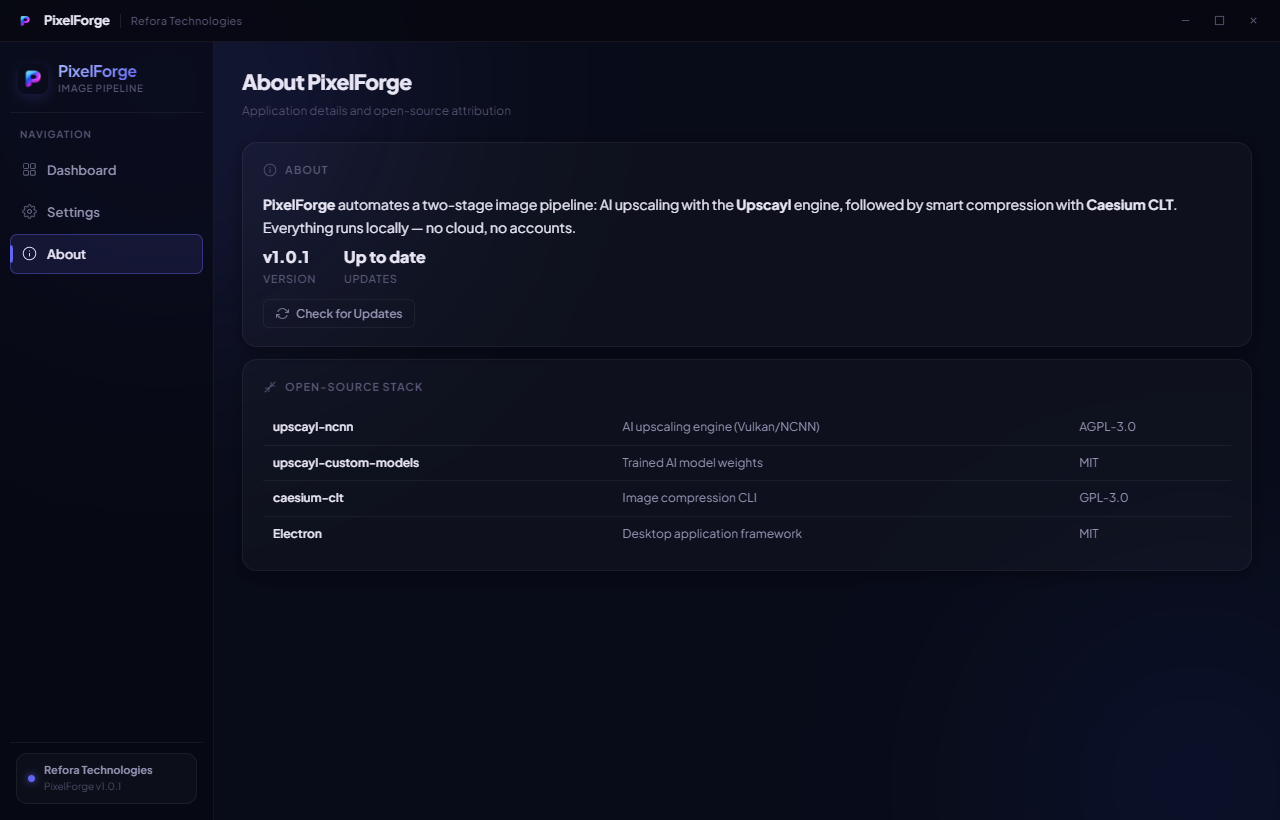
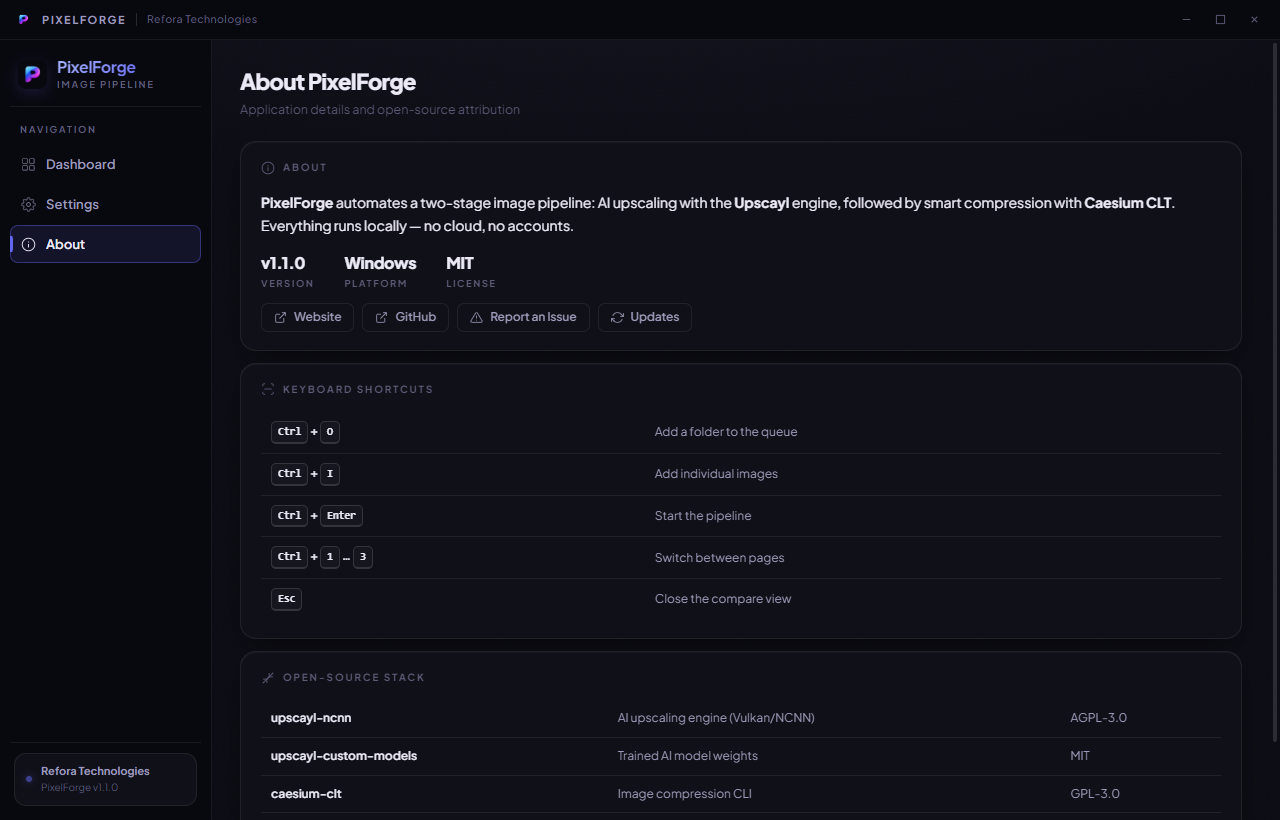
Refresh README screenshots for the new UI

diff --git a/tools/shoot-readme.js b/tools/shoot-readme.js
@@ -1,0 +1,112 @@
+'use strict';
+
+// Captures the three README screenshots at the same size and framing as the
+// originals: neutral sample filenames, and no filesystem paths in frame on the
+// dashboard (the Output Folders card sits below the fold with a full queue).
+//
+//   npx electron tools/shoot-readme.js
+
+const path = require('path');
+const fs = require('fs');
+const os = require('os');
+const { app, BrowserWindow } = require('electron');
+
+const ROOT = path.join(__dirname, '..');
+const OUT = path.join(ROOT, 'shots', 'readme');
+const WORK = path.join(os.tmpdir(), 'pixelforge-readme');
+const USER_DATA = path.join(WORK, 'userdata');
+const INPUT = path.join(WORK, 'samples');
+
+fs.rmSync(WORK, { recursive: true, force: true });
+for (const d of [USER_DATA, INPUT, OUT]) fs.mkdirSync(d, { recursive: true });
+app.setPath('userData', USER_DATA);
+
+const pkgVersion = require(path.join(ROOT, 'package.json')).version;
+app.getVersion = () => pkgVersion;
+
+const home = process.env.USERPROFILE || os.homedir();
+const binDir = path.join(process.env.APPDATA || '', 'PixelForge', 'bin');
+
+// Generic names so the queue reads like real photo work rather than test files.
+const SAMPLES = {
+  'landscape.png': path.join(ROOT, 'assets', 'icon.png'),
+  'portrait.png': path.join(ROOT, 'src', 'pixelfroge logo.png'),
+  'artwork.png': path.join(ROOT, 'assets', 'screenshots', 'dashboard.png'),
+  'closeup.png': path.join(ROOT, 'assets', 'screenshots', 'settings.png'),
+  'texture.png': path.join(ROOT, 'assets', 'screenshots', 'about.png'),
+};
+for (const [name, src] of Object.entries(SAMPLES)) fs.copyFileSync(src, path.join(INPUT, name));
+
+fs.writeFileSync(path.join(USER_DATA, 'config.json'), JSON.stringify({
+  app: {
+    setupDone: true, theme: 'dark', pipelineMode: 'both', outputMode: 'replace',
+    restoreSession: false, notifyOnComplete: true, soundOnComplete: false,
+    autoCheckUpdates: true, confirmOnExit: true, accentColor: '#6366f1',
+    recursive: false, namingTemplate: '{name}', inputQueue: [],
+    windowBounds: { width: 1280, height: 820, x: 80, y: 60, maximized: false },
+  },
+  upscayl: { model: 'upscayl-standard-4x', scale: '4', format: 'png', gpu: 'auto', tileSize: '0', tta: false },
+  caesium: { quality: 82, format: 'same', lossless: false, keepMeta: false },
+  // Real default locations, so the Paths panel reads like a normal install.
+  paths: {
+    upscaylBin: path.join(binDir, 'upscayl-bin.exe'),
+    caesiumBin: path.join(binDir, 'caesiumclt.exe'),
+    models: '',
+    upscaled: path.join(home, 'Documents', 'PixelForge', 'upscaled'),
+    compressed: path.join(home, 'Documents', 'PixelForge', 'compressed'),
+  },
+}, null, 2));
+
+require(path.join(ROOT, 'main.js'));
+
+const sleep = (ms) => new Promise(r => setTimeout(r, ms));
+const win = () => BrowserWindow.getAllWindows()[0];
+const js = (code) => win().webContents.executeJavaScript(code, true);
+
+async function shot(name, settle = 900) {
+  await sleep(settle);
+  const image = await win().webContents.capturePage();
+  const file = path.join(OUT, `${name}.png`);
+  fs.writeFileSync(file, image.toPNG());
+  const { width, height } = image.getSize();
+  console.log(`SHOT ${name}.png  ${width}x${height}  ${(fs.statSync(file).size / 1024).toFixed(0)}KB`);
+}
+
+async function waitFor(expr, label, timeout = 60000) {
+  const t0 = Date.now();
+  for (;;) {
+    if (await js(`(()=>{try{return !!(${expr})}catch(e){return false}})()`)) return;
+    if (Date.now() - t0 > timeout) throw new Error(`timed out waiting for ${label}`);
+    await sleep(400);
+  }
+}
+
+app.whenReady().then(async () => {
+  try {
+    await sleep(1500);
+    const w = win();
+    if (w.webContents.isLoading()) await new Promise(r => w.webContents.once('did-finish-load', r));
+    await waitFor(`document.getElementById('sidebar-version').textContent.indexOf('v')>=0`, 'renderer init');
+    await js(`document.getElementById('setup-overlay').style.display='none'`);
+
+    const files = JSON.stringify(Object.keys(SAMPLES).map(n => path.join(INPUT, n)));
+    await js(`addPaths(${files}); null`);
+    await waitFor(`scannedImages.length===${Object.keys(SAMPLES).length}`, 'scan');
+
+    // Clear any toast and pin to the top so Output Folders stays below the fold.
+    await js(`document.getElementById('toast-stack').innerHTML=''; document.getElementById('content').scrollTop=0; null`);
+    await shot('dashboard');
+
+    await js(`navigateTo('settings'); null`);
+    await shot('settings');
+
+    await js(`navigateTo('about'); null`);
+    await shot('about');
+
+    console.log('DONE');
+    app.exit(0);
+  } catch (err) {
+    console.error('FAILED:', err.message);
+    app.exit(1);
+  }
+});
